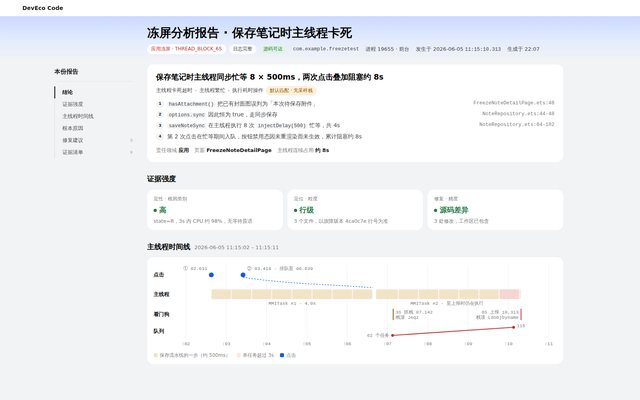
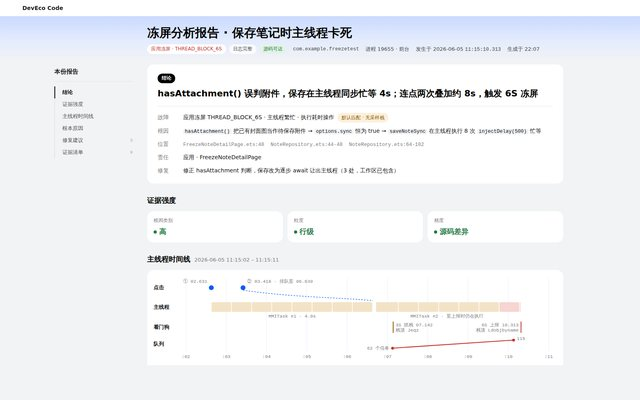
demo 28 结论卡改成判决样式，证据强度卡精简
结论卡：黑色「结论」标签 + 一句话判决（原因 → 结果），下面故障 / 根因 /
位置 / 责任 / 修复五行，内容取自原报告；编号要点与「根本原因」重复，去掉。
证据强度三张卡只留「根因类别 / 粒度 / 精度」与值，去掉说明文字。

diff --git a/demos/28-appfreeze-report/index.html b/demos/28-appfreeze-report/index.html
@@ -68,17 +68,17 @@ h1{font-size:30px;font-weight:700;line-height:1.3;color:var(--ink)}
 .card{background:var(--paper);border-radius:var(--r-card);padding:20px}
 
 /* 结论卡 */
-.verdict{padding:18px 22px}
-.verdict h3{font-size:19px;font-weight:700;line-height:1.45;margin-bottom:8px;color:var(--ink)}
-.path{display:flex;align-items:center;gap:6px;flex-wrap:wrap;font-size:13px;color:var(--ink2);margin-bottom:10px}
-.path .sep{color:var(--ink4)}
-.pts{list-style:none;display:flex;flex-direction:column;gap:5px;margin-bottom:14px}
-.pts li{display:grid;grid-template-columns:20px 1fr auto;gap:8px;align-items:start;font-size:14px;color:var(--ink2);line-height:1.55}
-.pts li .dot{width:20px;height:20px;border-radius:50%;background:var(--fill);color:var(--ink1);font-size:11px;font-weight:600;display:grid;place-items:center;font-family:var(--mono);margin-top:1px}
-.pts li.unk .dot{background:var(--part-soft);color:var(--part)}
-.pts li code{background:var(--fill);border-radius:4px;padding:0 4px}
-.vmeta{display:flex;flex-wrap:wrap;gap:4px 14px;font-size:13px;color:var(--ink3);margin-left:auto}
-.vmeta b{font-weight:600;color:var(--ink1)}
+.verdict{padding:22px 26px}
+.vlabel{display:inline-flex;align-items:center;height:24px;padding:0 10px;border-radius:999px;background:var(--btn);color:#fff;font-size:12px;font-weight:600;margin-bottom:10px}
+.vrows{display:grid;grid-template-columns:48px minmax(0,1fr);gap:10px 16px;margin-top:16px;padding-top:16px;border-top:1px solid var(--line);font-size:14px;line-height:1.6}
+.vrows dt{color:var(--ink3)}
+.vrows dd{margin:0;color:var(--ink1);min-width:0;overflow-wrap:anywhere}
+.vrows dd .loc{white-space:normal}
+.vrows dd .loc{margin-right:16px}
+.vrows code{background:var(--fill);border-radius:4px;padding:0 4px}
+.vrows .pill{margin-left:8px;vertical-align:1px}
+.vrows .muted{color:var(--ink4);font-size:13px}
+.verdict h3{font-size:22px;font-weight:700;line-height:1.45;color:var(--ink)}
 
 /* 时间线卡 */
 .chart{background:var(--paper);border-radius:var(--r-card);padding:14px 16px 12px}
@@ -121,7 +121,6 @@ h1{font-size:30px;font-weight:700;line-height:1.3;color:var(--ink)}
 .ax .k{font-size:12px;color:var(--ink3)}
 .ax .v{font-size:18px;font-weight:700;display:flex;align-items:center;gap:6px}
 .ax .v i{width:8px;height:8px;border-radius:50%;display:inline-block}
-.ax .d{font-size:12.5px;color:var(--ink3);line-height:1.5}
 .ax.yes .v{color:var(--yes)}.ax.yes .v i{background:var(--yes)}
 .ax.part .v{color:var(--part)}.ax.part .v i{background:var(--part)}
 
@@ -171,13 +170,12 @@ h1{font-size:30px;font-weight:700;line-height:1.3;color:var(--ink)}
 
 .fade{animation:fade .35s ease}
 @keyframes fade{from{opacity:.2;transform:translateY(4px)}to{opacity:1;transform:none}}
-@media (max-width:900px){.side{display:none}.wrap{padding:8px 16px 60px}.hero-in{padding:18px 16px 14px}.sub{padding:0 16px;gap:12px}h1{font-size:24px}.axes{grid-template-columns:1fr}.pts li{grid-template-columns:20px 1fr}.pts li>span:last-child{grid-column:2}.vmeta{margin-left:0}}
+@media (max-width:900px){.side{display:none}.wrap{padding:8px 16px 60px}.hero-in{padding:18px 16px 14px}.sub{padding:0 16px;gap:12px}h1{font-size:24px}.axes{grid-template-columns:1fr}.vrows{grid-template-columns:40px minmax(0,1fr)}}
 @media (prefers-reduced-motion:reduce){*{animation:none!important;transition:none!important}}
 
 .stack{display:flex;flex-direction:column;gap:28px;max-width:1040px}
 .sec-t .grow{flex:1}
 .loc{font-family:var(--mono);font-size:12.5px;color:var(--ink3);white-space:nowrap}
-.vmeta{margin-left:0}
 .fixnote{font-size:13px;color:var(--ink3);margin-top:12px;line-height:1.6}
 .tt2{width:100%;border-collapse:collapse;font-size:12.5px;margin-top:4px}
 .tt2 th{text-align:left;font-weight:600;color:var(--ink3);padding:6px 8px;border-bottom:1px solid var(--line)}
@@ -314,24 +312,27 @@ function checks(v){
 
 const V = {
   v2: {
-    title:'保存笔记时主线程同步忙等 8 × 500ms，两次点击叠加阻塞约 8s',
-    pts:[
-      {h:'<code>hasAttachment()</code> 把已有封面图误判为「本次待保存附件」', loc:'FreezeNoteDetailPage.ets:48'},
-      {h:'<code>options.sync</code> 因此恒为 true，走同步保存', loc:'NoteRepository.ets:44-48'},
-      {h:'<code>saveNoteSync</code> 在主线程执行 8 次 <code>injectDelay(500)</code> 忙等，共 4s', loc:'NoteRepository.ets:64-102'},
-      {h:'第 2 次点击在忙等期间入队，按钮禁用态因未重渲染而未生效，累计阻塞约 8s'},
+    title:'hasAttachment() 误判附件，保存在主线程同步忙等 4s；连点两次叠加约 8s，触发 6S 冻屏',
+    rows:[
+      ['故障','应用冻屏 THREAD_BLOCK_6S · 主线程繁忙 · 执行耗时操作<span class="pill part">默认匹配 · 无采样栈</span>'],
+      ['根因','<code>hasAttachment()</code> 把已有封面图当作待保存附件 → <code>options.sync</code> 恒为 true → <code>saveNoteSync</code> 在主线程执行 8 次 <code>injectDelay(500)</code> 忙等'],
+      ['位置','<span class="loc">FreezeNoteDetailPage.ets:48</span><span class="loc">NoteRepository.ets:44-48</span><span class="loc">NoteRepository.ets:64-102</span>'],
+      ['责任','应用 · FreezeNoteDetailPage'],
+      ['修复','修正 hasAttachment 判断，保存改为逐步 await 让出主线程（3 处，工作区已包含）'],
     ],
-    axes:[['定性 · 根因类别','高','yes','state=R，3s 内 CPU 约 98%，无等待原语'],['定位 · 粒度','行级','yes','3 个文件，以故障版本 4ca0c7e 行号为准'],['修复 · 精度','源码差异','yes','3 处修改，工作区已包含']],
+    axes:[['根因类别','高','yes'],['粒度','行级','yes'],['精度','源码差异','yes']],
     chain:['用户在 CrashTestPage 开启冻屏测试模式，于 11:14:58 进入 FreezeNoteDetailPage，页面加载的笔记带封面图','11:15:02.631 点击「保存笔记」：hasAttachment() 按 thumbnailPath !== undefined 误判有附件，options.sync = true，saveNote 同步调用 saveNoteSync','saveNoteSync 在主线程顺序执行 8 次 injectDelay(500) 忙等（共 4.0s）；两次栈顶字节码与 state=R、utime 近满核互相印证：繁忙态','11:15:03.418 再次点击：首次点击仍在忙等，isSaving 的禁用态因主线程未返回事件循环、未重渲染而未生效','11:15:06.639 第 1 轮完成（4.0s），第 2 轮立即开始；主线程自 02.632 起连续占用约 8s，VIP 队列积压 105 个','HiCollie 先后于 11:15:07 触发 3S 告警、11:15:10.313 触发 6S 上报'],
   },
   v1: {
-    title:'保存笔记时主线程同步执行 saveNoteSync 流水线，两次点击叠加阻塞约 8s',
-    pts:[
-      {h:'Save 按钮回调 <code>onSaveClick</code> 调用 <code>saveNote(sync=true)</code>，在主线程同步执行 <code>saveNoteSync</code>', loc:'A00000/NoteRepository'},
-      {h:'保存流水线 8 步、每步约 0.5s，单轮约 4.0s'},
-      {h:'第 1 轮执行期间用户再次点击，第 2 轮紧接执行，主线程连续约 8s 满负荷'},
+    title:'保存在主线程同步执行 saveNoteSync 流水线约 4s；连点两次叠加约 8s，触发 6S 冻屏',
+    rows:[
+      ['故障','应用冻屏 THREAD_BLOCK_6S · 主线程繁忙 · 执行耗时操作<span class="pill part">默认匹配 · 无采样栈</span>'],
+      ['根因','Save 回调 <code>onSaveClick</code> 调用 <code>saveNote(sync=true)</code>，在主线程同步执行 8 步保存流水线，每步约 0.5s'],
+      ['位置','<span class="loc">A00000/FreezeNoteDetail · onSaveClick</span><span class="loc">A00000/NoteRepository · saveNoteSync</span><span class="muted">行号不可用</span>'],
+      ['责任','应用 · FreezeNoteDetailPage'],
+      ['修复','保存流水线移入 TaskPool，保存增加进行中守卫（通用方向）'],
     ],
-    axes:[['定性 · 根因类别','高','yes','state=R，3s 内 CPU 约 98%，无等待原语'],['定位 · 粒度','业务函数','part','由应用日志定位，行号不可用'],['修复 · 精度','通用方向与模板','part','源码不可达，未给出源码差异']],
+    axes:[['根因类别','高','yes'],['粒度','业务函数','part'],['精度','通用方向与模板','part']],
     chain:['用户在 FreezeNoteDetailPage（11:14:58.240 切入）点击 Save，onSaveClick 调用 NoteRepository.saveNote(sync=true)','主线程同步执行 saveNoteSync 保存流水线：写库 → 搜索索引 → 附件引用 → 标签关联 → 分类归属 → 缩略图元数据 → 云同步排队 → 偏好清理，每步约 0.5s，单轮约 4.0s','第 1 轮执行期间（11:15:03.418）用户再次点击，第 2 个 MMITask 排队至 11:15:06.639 分发，第 2 轮紧接执行','主线程连续约 8s 满负荷执行 ArkTS 字节码，EventHandler 队列 62 → 115，vSync 与输入均被阻塞','11:15:07 触发 3S 告警，11:15:10.313 触发 6S 冻屏上报'],
   }
 };
@@ -381,15 +382,14 @@ function render(anim){
     </div></div></div>`;
   $('#main').innerHTML=`<div class="stack ${anim?'fade':''}">
     <section id="sec-verdict" class="card verdict">
-      <h3>${d.title}</h3>
-      <div class="path">主线程卡死超时<span class="sep">›</span>主线程繁忙<span class="sep">›</span>执行耗时操作 <span class="pill part">默认匹配 · 无采样栈</span></div>
-      <ul class="pts">${d.pts.map((p,i)=>`<li><span class="dot">${i+1}</span><span>${p.h}</span><span class="loc">${p.loc||''}</span></li>`).join('')}</ul>
-      <div class="vmeta"><span>责任领域 <b>应用</b></span><span>页面 <b>FreezeNoteDetailPage</b></span><span>主线程连续占用 <b>约 8s</b></span></div>
+      <div class="vlabel">结论</div>
+      <h3>${esc(d.title)}</h3>
+      <dl class="vrows">${d.rows.map(r=>`<dt>${r[0]}</dt><dd>${r[1]}</dd>`).join('')}</dl>
     </section>
 
     <section id="sec-strength">
       <div class="sec-t"><h2>证据强度</h2></div>
-      <div class="axes">${d.axes.map(a=>`<div class="ax ${a[2]}"><span class="k">${a[0]}</span><span class="v"><i></i>${a[1]}</span><span class="d">${a[3]}</span></div>`).join('')}</div>
+      <div class="axes">${d.axes.map(a=>`<div class="ax ${a[2]}"><span class="k">${a[0]}</span><span class="v"><i></i>${a[1]}</span></div>`).join('')}</div>
     </section>
 
     <section id="sec-timeline">
